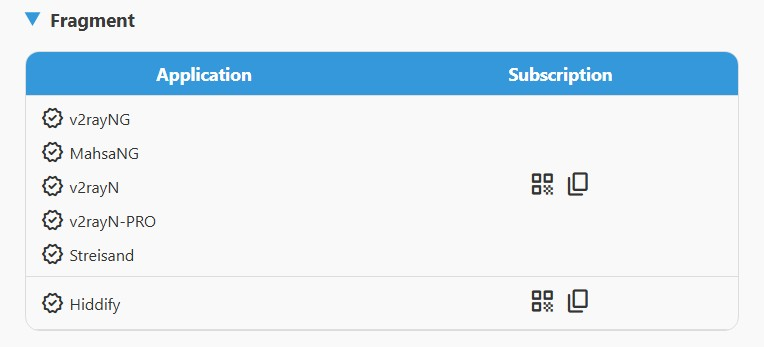
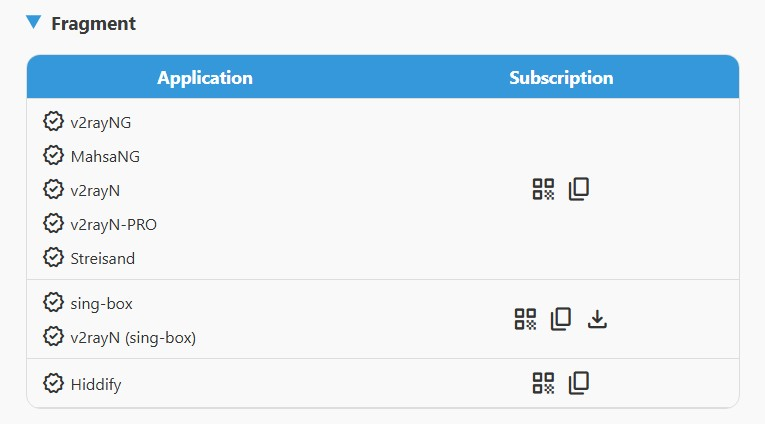
Added sing-box fragment sub.

diff --git a/src/cores-configs/sing-box.js b/src/cores-configs/sing-box.js
@@ -281,7 +281,7 @@ function buildSingBoxRoutingRules(isWarp) {
     }
 }
 
-function buildSingBoxVLOutbound(remark, address, port, host, sni, allowInsecure) {
+function buildSingBoxVLOutbound(remark, address, port, host, sni, allowInsecure, isFragment) {
     const settings = globalThis.settings;
     const path = `/${getRandomPath(16)}${settings.proxyIPs.length ? `/${btoa(settings.proxyIPs.join(','))}` : ''}`;
     const tls = globalThis.defaultHttpsPorts.includes(port) ? true : false;
@@ -317,6 +317,7 @@ function buildSingBoxVLOutbound(remark, address, port, host, sni, allowInsecure)
         enabled: true,
         insecure: allowInsecure,
         server_name: sni,
+        record_fragment: isFragment,
         utls: {
             enabled: true,
             fingerprint: "randomized"
@@ -326,7 +327,7 @@ function buildSingBoxVLOutbound(remark, address, port, host, sni, allowInsecure)
     return outbound;
 }
 
-function buildSingBoxTROutbound(remark, address, port, host, sni, allowInsecure) {
+function buildSingBoxTROutbound(remark, address, port, host, sni, allowInsecure, isFragment) {
     const settings = globalThis.settings;
     const path = `/tr${getRandomPath(16)}${settings.proxyIPs.length ? `/${btoa(settings.proxyIPs.join(','))}` : ''}`;
     const tls = globalThis.defaultHttpsPorts.includes(port) ? true : false;
@@ -361,6 +362,7 @@ function buildSingBoxTROutbound(remark, address, port, host, sni, allowInsecure)
         enabled: true,
         insecure: allowInsecure,
         server_name: sni,
+        record_fragment: isFragment,
         utls: {
             enabled: true,
             fingerprint: "randomized"
@@ -583,7 +585,7 @@ export async function getSingBoxWarpConfig(request, env) {
     });
 }
 
-export async function getSingBoxCustomConfig(env) {
+export async function getSingBoxCustomConfig(env, isFragment) {
     const settings = globalThis.settings;
     let chainProxy;
 
@@ -613,9 +615,13 @@ export async function getSingBoxCustomConfig(env) {
         chains: []
     }
 
+    const ports = isFragment 
+        ? settings.ports.filter(port => globalThis.defaultHttpsPorts.includes(port))
+        : settings.ports;
+
     protocols.forEach(protocol => {
         let protocolIndex = 1;
-        settings.ports.forEach(port => {
+        ports.forEach(port => {
             Addresses.forEach(addr => {
                 let VLOutbound, TROutbound;
                 const isCustomAddr = settings.customCdnAddrs.includes(addr);
@@ -631,7 +637,8 @@ export async function getSingBoxCustomConfig(env) {
                         port,
                         host,
                         sni,
-                        isCustomAddr
+                        isCustomAddr,
+                        isFragment
                     );
 
                     outbounds.proxies.push(VLOutbound);
@@ -644,7 +651,8 @@ export async function getSingBoxCustomConfig(env) {
                         port,
                         host,
                         sni,
-                        isCustomAddr
+                        isCustomAddr,
+                        isFragment
                     );
 
                     outbounds.proxies.push(TROutbound);

diff --git a/src/assets/panel/index.html b/src/assets/panel/index.html
@@ -715,6 +715,31 @@
                         <td>
                             <div>
                                 <span class="material-symbols-rounded">verified</span>
+                                <span>sing-box</span>
+                            </div>
+                            <div>
+                                <span class="material-symbols-rounded">verified</span>
+                                <span>v2rayN (sing-box)</span>
+                            </div>
+                        </td>
+                        <td>
+                            <button title="Display QR code"
+                                onclick="openQR('fragment', 'sfa', 'Fragment', 'Fragment Subscription', true, false)">
+                                <span class="material-symbols-rounded">qr_code</span>
+                            </button>
+                            <button title="Copy subscription URL"
+                                onclick="subURL('fragment', 'sfa', 'Fragment')">
+                                <span class="material-symbols-rounded">content_copy</span>
+                            </button>
+                            <button title="Download config" onclick="dlURL('fragment', 'sfa')">
+                                <span class="material-symbols-rounded">download</span>
+                            </button>
+                        </td>
+                    </tr>
+                    <tr>
+                        <td>
+                            <div>
+                                <span class="material-symbols-rounded">verified</span>
                                 <span>Hiddify</span>
                             </div>
                         </td>

diff --git a/src/helpers/helpers.js b/src/helpers/helpers.js
@@ -60,7 +60,7 @@ export async function handleSubscriptions(request, env) {
         case `/sub/full-normal/${subPath}`:
             switch (client) {
                 case 'sfa':
-                    return await getSingBoxCustomConfig(env);
+                    return await getSingBoxCustomConfig(env, false);
                 case 'clash':
                     return await getClashNormalConfig(env);
                 case 'xray':
@@ -70,8 +70,14 @@ export async function handleSubscriptions(request, env) {
             }
 
         case `/sub/fragment/${subPath}`:
-            if (client === 'hiddify-frag') return await getNormalConfigs(true);
-            return await getXrayCustomConfigs(env, true);
+            switch (client) {
+                case 'sfa':
+                    return await getSingBoxCustomConfig(env, true);
+                case 'hiddify-frag':
+                    return await getNormalConfigs(true);
+                default:
+                    return await getXrayCustomConfigs(env, true);
+            }
 
         case `/sub/warp/${subPath}`:
             switch (client) {

diff --git a/README.md b/README.md
@@ -54,8 +54,8 @@ This project is aimed to provide a user panel to access FREE, SECURE and PRIVATE
 |     **v2rayNG**     | 1.10.2 or higher | :heavy_check_mark: | :heavy_check_mark: |
 |     **v2rayN**      | 7.12.5 or higher | :heavy_check_mark: | :heavy_check_mark: |
 |   **v2rayN-PRO**    |  1.9 or higher   | :heavy_check_mark: | :heavy_check_mark: |
-|      **Husi**       |                  |        :x:         |        :x:         |
-|    **Sing-box**     | 1.11.2 or higher |        :x:         |        :x:         |
+|      **Husi**       |                  | :heavy_check_mark: |        :x:         |
+|    **Sing-box**     | 1.12.0 or higher | :heavy_check_mark: |        :x:         |
 |    **Streisand**    | 1.6.48 or higher | :heavy_check_mark: | :heavy_check_mark: |
 |      **V2Box**      |                  |        :x:         |        :x:         |
 |  **Shadowrocket**   |                  |        :x:         |        :x:         |
@@ -67,7 +67,6 @@ This project is aimed to provide a user panel to access FREE, SECURE and PRIVATE
 |     **FLClash**     |                  |        :x:         |        :x:         |
 |   **AmneziaVPN**    |                  |        :x:         | :heavy_check_mark: |
 |    **WG Tunnel**    |                  |        :x:         | :heavy_check_mark: |
-
 
 ## Environment variables
 

diff --git a/docs/fa/docs/usage/fragment.md b/docs/fa/docs/usage/fragment.md
@@ -16,6 +16,10 @@
 ???+ question "کانفیگ Best Fragment چیه؟"
     کانفیگ Best Fragment هجده تنظیم مختلف Fragment رو تست میکنه و بر اساس عملکرد اپراتور شما، سریعترین رو انتخاب میکنه. این حالتهای Fragment برای پوشش همه سناریوهای ممکن طراحی شدن و کانفیگ هر 30 ثانیه همه حالتها رو تست میکنه و به بهترینش متصل میشه. جزئیات پیشرفته تنظیمات Fragment رو میتونید [اینجا](../configuration/fragment.md) ببینید.
 
+## Fragment برای sing-box
+
+از نسخه 1.12.0 به بعد شما میتونید از این ساب استفاده کنید، روی تمامی برنامههایی که از هسته sing-box استفاده میکنن هم قابل استفاده هست مثل husi یا v2rayN که هسته sing-box هم داره.
+
 ## Fragment برای Hiddify
 
 خیلی از تنظیمات پنل توی این اشتراک اعمال نمیشن، چون Hiddify بیشتر تنظیمات رو خودش کنترل میکنه. موارد زیر باید بهصورت دستی توی Hiddify تنظیم بشن:

diff --git a/docs/en/docs/usage/fragment.md b/docs/en/docs/usage/fragment.md
@@ -16,6 +16,10 @@ This applies to clients using the Xray core, such as v2rayNG, MansaNG, and v2ray
 ???+ question "What is the Best Fragment config?"
     The Best Fragment config tests 18 different fragment settings, selecting the fastest based on your ISP’s performance. These modes are designed to cover all primary scenarios, with the config testing all modes every 30s and connecting to the optimal one. Advanced fragment settings are detailed [here](../configuration/fragment.md).
 
+## Fragment for sing-box
+
+Starting from version 1.12.0 sing-box core and related clients support fragment, you can use this sub by official sing-box client like husi or v2rayN which has sing-box core embeded.
+
 ## Fragment for Hiddify
 
 Many panel settings are not applied to this subscription, as Hiddify overrides most settings. The following must be configured manually in Hiddify:

diff --git a/docs/en/docs/index.md b/docs/en/docs/index.md
@@ -48,7 +48,7 @@ This project is aimed to provide a user panel to access FREE, SECURE and PRIVATE
 |     **v2rayN**      | 7.12.5 or higher | :material-check: | :material-check: |
 |   **v2rayN-PRO**    |  1.9 or higher   | :material-check: | :material-check: |
 |      **Husi**       |                  | :material-close: | :material-close: |
-|    **Sing-box**     | 1.11.2 or higher | :material-close: | :material-close: |
+|    **Sing-box**     | 1.12.0 or higher | :material-check: | :material-close: |
 |    **Streisand**    | 1.6.48 or higher | :material-check: | :material-check: |
 |      **V2Box**      |                  | :material-close: | :material-close: |
 |  **Shadowrocket**   |                  | :material-close: | :material-close: |

diff --git a/RELEASE.md b/RELEASE.md
@@ -1,5 +1,7 @@
-# ⚙ Bug fixes and Improvements
+# Sing-box Fragment
 
-- Added second WorkerLess config with Google DoH for circumstances which Cloudflare is blocked.
-- Fixed Xray Fake DNS
-- Updated Wizard tutorial.
+Starting from version 1.12.0 sing-box added tls fragment to its core. Panel is now providing fragment sub for sing-box, however, please note that fragment settings in panel are not affecting sing-box config because it only has 1 mod available and is not flexible. It works by the way.
+
+## ⚙ Bug fixes and Improvements
+
+- Fixed Russia routing rules bug.

diff --git a/README_fa.md b/README_fa.md
@@ -83,8 +83,8 @@
     </tr>
     <tr>
       <td><b>Sing-box</b></td>
-      <td>1.11.2 و بالاتر</td>
-      <td>❌</td>
+      <td>1.12.0 و بالاتر</td>
+      <td>✔</td>
       <td>❌</td>
     </tr>
     <tr>
